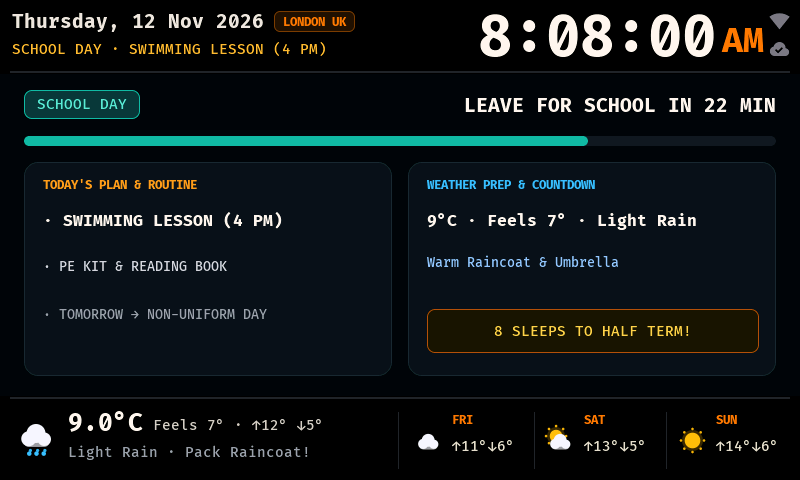
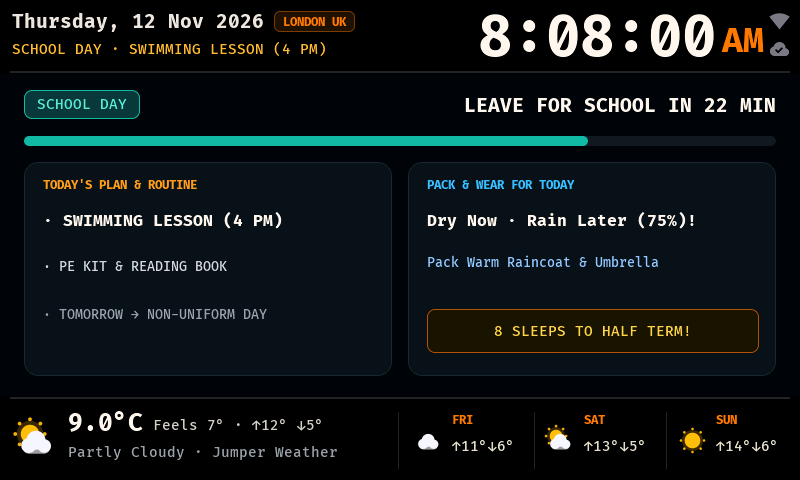
feat(v1.3.0): whole-day Pack & Wear morning briefing + configurable Launchpad start time & after-school hide delay

diff --git a/components/world_clock/ics_parser.h b/components/world_clock/ics_parser.h
@@ -203,6 +203,106 @@ inline std::string weather_prep_hint(const std::string &cond, float temp_c, bool
   return "Layers · Check Outside";
 }
 
+// Whole-day school-run briefing for the Morning Launchpad ("PACK & WEAR FOR TODAY" card).
+// Focuses on what changes across the whole day (rain later when dry now, morning->afternoon swings,
+// all-day cold/heat) rather than duplicating Band 3's current-moment temperature readout.
+struct DayPrepBriefing {
+  std::string headline;
+  std::string pack_hint;
+};
+
+inline DayPrepBriefing build_day_prep_briefing(const std::string &cur_cond, const std::string &today_cond,
+                                               float cur_c, float high_c, float low_c, int precip_pct, bool use_f) {
+  auto lower = [](std::string s) {
+    for (char &ch : s) ch = (char)tolower((unsigned char)ch);
+    return s;
+  };
+  auto is_wet = [](const std::string &s) {
+    return s.find("rain") != std::string::npos || s.find("pour") != std::string::npos ||
+           s.find("lightning") != std::string::npos || s.find("storm") != std::string::npos;
+  };
+  auto is_snow = [](const std::string &s) {
+    return s.find("snow") != std::string::npos || s.find("sleet") != std::string::npos ||
+           s.find("hail") != std::string::npos;
+  };
+
+  if (std::isnan(cur_c) && std::isnan(high_c)) {
+    return {"Day Forecast Syncing...", "Check outside before leaving"};
+  }
+
+  std::string cc = lower(cur_cond);
+  std::string dc = lower(today_cond);
+  bool cur_w = is_wet(cc);
+  bool cur_s = is_snow(cc);
+  bool day_s = is_snow(dc);
+  bool day_w = is_wet(dc) || (precip_pct >= 50);
+
+  float hi_c = !std::isnan(high_c) ? high_c : cur_c;
+  float lo_c = !std::isnan(low_c) ? low_c : cur_c;
+  float disp_hi = use_f ? c_to_f(hi_c) : hi_c;
+  if (fabsf(disp_hi) < 0.5f) disp_hi = 0.0f;
+  char unit = use_f ? 'F' : 'C';
+  bool big_swing = !std::isnan(cur_c) && !std::isnan(high_c) && ((high_c - cur_c) >= 7.0f);
+
+  char hdr[48];
+  if (cur_s || day_s) {
+    if (!cur_s && day_s) {
+      snprintf(hdr, sizeof(hdr), "Dry Now · Snow Later (%.0f°%c)", disp_hi, unit);
+    } else {
+      snprintf(hdr, sizeof(hdr), "Snow & Ice Today (High %.0f°%c)", disp_hi, unit);
+    }
+    return {hdr, "Warm Coat, Hat, Gloves & Boots"};
+  }
+
+  if (!cur_w && day_w) {
+    if (precip_pct >= 50) {
+      snprintf(hdr, sizeof(hdr), "Dry Now · Rain Later (%d%%)!", std::min(precip_pct, 100));
+    } else {
+      snprintf(hdr, sizeof(hdr), "Dry Now · Rain Expected Later!");
+    }
+    if (hi_c < 13.0f) return {hdr, "Pack Warm Raincoat & Umbrella"};
+    if (big_swing && hi_c >= 19.0f) return {hdr, "Layers + Light Raincoat!"};
+    return {hdr, "Pack Raincoat for Home Time!"};
+  }
+
+  if (cur_w) {
+    if (precip_pct >= 50) {
+      snprintf(hdr, sizeof(hdr), "Wet Today (High %.0f°%c · %d%%)", disp_hi, unit, std::min(precip_pct, 100));
+    } else {
+      snprintf(hdr, sizeof(hdr), "Wet & Showery (High %.0f°%c)", disp_hi, unit);
+    }
+    return {hdr, (hi_c < 13.0f) ? "Warm Raincoat & Umbrella" : "Light Raincoat & Umbrella"};
+  }
+
+  if (big_swing && hi_c >= 18.0f) {
+    if (hi_c >= 24.0f) {
+      snprintf(hdr, sizeof(hdr), "Cool AM \u2192 Hot PM (\u2191%.0f°%c)", disp_hi, unit);
+      return {hdr, "Layers + Sun Hat & Water"};
+    }
+    snprintf(hdr, sizeof(hdr), "Cool AM \u2192 Warm PM (\u2191%.0f°%c)", disp_hi, unit);
+    return {hdr, "Layers: Jumper Now, T-Shirt Later"};
+  }
+
+  if (hi_c >= 22.0f) {
+    snprintf(hdr, sizeof(hdr), "Warm & Bright Later (\u2191%.0f°%c)", disp_hi, unit);
+    return {hdr, "Sun Hat, Suncream & Water"};
+  }
+  if (hi_c < 8.5f || (lo_c < 2.0f && hi_c < 11.0f)) {
+    snprintf(hdr, sizeof(hdr), "Cold All Day (High %.0f°%c)", disp_hi, unit);
+    return {hdr, "Big Coat, Hat & Gloves"};
+  }
+  if (hi_c < 15.0f) {
+    snprintf(hdr, sizeof(hdr), "Cool Day Ahead (High %.0f°%c)", disp_hi, unit);
+    return {hdr, "Jumper or Light Jacket"};
+  }
+  if (hi_c >= 19.0f) {
+    snprintf(hdr, sizeof(hdr), "Warm Afternoon (High %.0f°%c)", disp_hi, unit);
+    return {hdr, "T-Shirt Weather + Water"};
+  }
+  snprintf(hdr, sizeof(hdr), "Mild Day Ahead (High %.0f°%c)", disp_hi, unit);
+  return {hdr, "Light Layers · No Rain Due"};
+}
+
 // Evaluates Family + School calendars + Custom Countdown into unified display strings
 // across all 3 priority modes (0=Smart Auto, 1=Today & Routine First, 2=Countdowns First).
 inline CalendarView build_calendar_view(const IcsFeedSummary &fam, const IcsFeedSummary &sch,

diff --git a/components/world_clock/net_worker.h b/components/world_clock/net_worker.h
@@ -52,6 +52,8 @@ struct StandaloneTelemetry {
   float wx_high{NAN};
   float wx_low{NAN};
   char cond_buf[32]{"cloudy"};
+  char wx_today_cond_buf[32]{""};
+  int wx_today_precip_pct{-1};
   char forecast_3day_buf[128]{""};
 
   // ISS payload (protected by mtx; iss_valid is atomic above)
@@ -394,7 +396,7 @@ class NetWorker {
         snprintf(url_buf, kUrlCap,
                  "https://api.open-meteo.com/v1/forecast?latitude=%.4f&longitude=%.4f"
                  "&current=temperature_2m,apparent_temperature,weather_code,is_day"
-                 "&daily=weather_code,temperature_2m_max,temperature_2m_min"
+                 "&daily=weather_code,temperature_2m_max,temperature_2m_min,precipitation_probability_max"
                  "&timezone=auto&forecast_days=4",
                  q_lat, q_lon);
 
@@ -414,6 +416,8 @@ class NetWorker {
             float d_max[] = {NAN, NAN, NAN, NAN};
             float d_min[] = {NAN, NAN, NAN, NAN};
             float d_wmo[] = {3, 3, 3, 3};
+            float d_pp[] = {-1, -1, -1, -1};
+            bool have_pp = false;
             fc_local[0] = '\0';
             bool have_daily = false;
 
@@ -421,7 +425,9 @@ class NetWorker {
               const char *p_max = strstr(day_sec, "\"temperature_2m_max\"");
               const char *p_min = strstr(day_sec, "\"temperature_2m_min\"");
               const char *p_wmo = strstr(day_sec, "\"weather_code\"");
+              const char *p_pp = strstr(day_sec, "\"precipitation_probability_max\"");
               const char *p_tm = strstr(day_sec, "\"time\"");
+              if (p_pp != nullptr && parse_csv_floats(p_pp + 31, d_pp, 4)) have_pp = true;
               if (p_max && p_min && p_wmo && p_tm && parse_csv_floats(p_max + 20, d_max, 4) &&
                   parse_csv_floats(p_min + 20, d_min, 4) && parse_csv_floats(p_wmo + 14, d_wmo, 4)) {
                 have_daily = true;
@@ -449,6 +455,9 @@ class NetWorker {
               if (have_daily) {
                 t.wx_high = d_max[0];
                 t.wx_low = d_min[0];
+                snprintf(t.wx_today_cond_buf, sizeof(t.wx_today_cond_buf), "%s",
+                         wmo_to_cond((int)roundf(d_wmo[0]), true));
+                t.wx_today_precip_pct = have_pp ? (int)roundf(std::clamp(d_pp[0], 0.0f, 100.0f)) : -1;
                 if (fc_local[0] != '\0') snprintf(t.forecast_3day_buf, sizeof(t.forecast_3day_buf), "%s", fc_local);
               }
               snprintf(t.cond_buf, sizeof(t.cond_buf), "%s", cond_str);

diff --git a/tests/test_clock_math.cpp b/tests/test_clock_math.cpp
@@ -517,6 +517,29 @@ int main() {
     assert(!w4_mon.summary().today_timed[1].valid);
   }
 
+  // 13. v1.3.0 Whole-Day "PACK & WEAR FOR TODAY" Briefing (Zero Redundancy with Current Weather Dock!)
+  {
+    // Dry morning right now (partlycloudy 9C) BUT 75% rain forecast later -> warns to pack raincoat!
+    auto b1 = build_day_prep_briefing("partlycloudy", "rainy", 9.0f, 12.0f, 5.0f, 75, false);
+    assert(b1.headline == "Dry Now · Rain Later (75%)!");
+    assert(b1.pack_hint == "Pack Warm Raincoat & Umbrella");
+
+    // Chilly summer morning (11C) climbing to hot afternoon (25C) -> layers + sun hat & water!
+    auto b2 = build_day_prep_briefing("sunny", "sunny", 11.0f, 25.0f, 9.0f, 10, false);
+    assert(b2.headline.find("Cool AM") != std::string::npos && b2.headline.find("Hot PM") != std::string::npos);
+    assert(b2.pack_hint == "Layers + Sun Hat & Water");
+
+    // Cool morning (10C) climbing to warm afternoon (21C) -> Jumper now, T-Shirt later!
+    auto b3 = build_day_prep_briefing("sunny", "partlycloudy", 10.0f, 21.0f, 8.0f, 15, false);
+    assert(b3.headline.find("Warm PM") != std::string::npos);
+    assert(b3.pack_hint == "Layers: Jumper Now, T-Shirt Later");
+
+    // Freezing all day (High 5C) in Fahrenheit -> 41°F
+    auto b4 = build_day_prep_briefing("cloudy", "cloudy", 2.0f, 5.0f, 0.0f, 10, true);
+    assert(b4.headline == "Cold All Day (High 41°F)");
+    assert(b4.pack_hint == "Big Coat, Hat & Gloves");
+  }
+
   printf("ALL CLOCK_MATH & ICS_PARSER UNIT TESTS PASSED!\n");
   return 0;
 }

diff --git a/docs/PARENT_GUIDE.md b/docs/PARENT_GUIDE.md
@@ -31,10 +31,10 @@ Pick how prominent you want your calendar to look under **Calendar Display Style
 1. **Subtle Ticker Only** *(Default)* — Keeps the full live World Map & 3-day forecast visible, rotating calm calendar headlines along the top ticker (`"SCHOOL DAY · SWIMMING LESSON (4 PM)"`).
 2. **Prominent Dock Card** — Keeps the full World Map & ISS visible, while turning the bottom-right dock card into a clean **"TODAY'S PLAN"** card with a live countdown for timed events (`"SWIMMING LESSON IN 25 MIN!"`):
    ![Prominent Calendar Dock Card](media/21_calendar_prominent_dock.png)
-3. **Morning Launchpad Takeover** *(Autism-Friendly School Morning Mode)* — From **your child's effective Morning Wake-Up Time** until **5 minutes past your Leave for School Time** (automatically skipped on quiet weekends with no scheduled events!), Band 2 gently switches to a calm, structured morning briefing board (then automatically returns to the live World Map!):
+3. **Morning Launchpad Takeover** *(Autism-Friendly School Morning Mode)* — Starts at your **Morning Launchpad Start Time** (default `07:00`, and automatically waits until Wake-Up if Sleep/Quiet Play is still active!) and stays on for your **Keep Launchpad After School Time** grace window (default `30 min` past `Leave for School Time`, e.g. `08:30 → 09:00` for busy mornings!), automatically skipped on quiet weekends with no scheduled events:
    - Top **School Day** (teal) or **No School · Half Term** (warm amber) badge + live **"LEAVE FOR SCHOOL IN 22 MIN"** progress bar
    - **Today's Plan & Routine** (Parent Note, timed events, all-day items like PE Kit, and Tomorrow heads-up)
-   - **Weather Prep Checklist** (e.g. *"Warm Raincoat & Umbrella"*, *"Big Coat, Gloves & Scarf"*, *"Sun Hat, Suncream & Water"*)
+   - **Pack & Wear for Today (Whole-Day Briefing)** — Looks ahead at the **full day's forecast** rather than repeating the current weather below it: warns *"Dry Now · Rain Later (75%)! → Pack Warm Raincoat & Umbrella"* when rain is due by pickup, or *"Cool AM → Warm PM (↑23°C) → Layers: Jumper Now, T-Shirt Later"* on big morning-to-afternoon temperature swings!
    - **Automatic Holiday & Back-to-School Badge**: counts down **"8 SLEEPS TO HALF TERM!"** during term time and **"5 SLEEPS TO BACK TO SCHOOL"** during school holidays (automatically skipping Sat/Sun weekends!)
 
 | School Day Morning Launchpad | Half Term No-School Launchpad |

diff --git a/README.md b/README.md
@@ -33,7 +33,7 @@ Each phase can be enabled/disabled and customized independently (times, brightne
 | ![Tooth Fairy Mode](docs/media/18_tooth_fairy_winddown.png) | ![Boot Screen with Sleep-Safe Red QR Code and Unique Login](docs/media/01_boot_splash.png) |
 
 ### Family & School Calendars, Morning Launchpad & Multi-Age Study Desk
-Choose between **Subtle Ticker Only**, **Prominent Dock Card**, or **Morning Launchpad Takeover** (calm autism-friendly daily briefing with live Leave-for-School countdown, weather prep checklist, and automatic *"X SLEEPS TO HALF TERM!"* / *"X SLEEPS TO BACK TO SCHOOL"* badges), plus **Symmetric School-Night Bedtimes** (Friday/Saturday/pre-holiday late bedtime; Sunday night automatically reverts to early school-night bedtime!) and **Age & Visual Profiles (Ages 3–16+)** with a built-in **25m / 5m Focus Pomodoro Timer**:
+Choose between **Subtle Ticker Only**, **Prominent Dock Card**, or **Morning Launchpad Takeover** (calm autism-friendly daily briefing with live Leave-for-School countdown, whole-day **Pack & Wear for Today** briefing — e.g. *"Dry Now · Rain Later (75%)!"* or *"Cool AM → Warm PM (↑23°C)"* — and automatic *"X SLEEPS TO HALF TERM!"* / *"X SLEEPS TO BACK TO SCHOOL"* badges), plus **Symmetric School-Night Bedtimes** (Friday/Saturday/pre-holiday late bedtime; Sunday night automatically reverts to early school-night bedtime!) and **Age & Visual Profiles (Ages 3–16+)** with a built-in **25m / 5m Focus Pomodoro Timer**:
 
 | Calendar & Multi-Age Walkthrough (Animated) | Morning Launchpad — School Day & Leave Countdown |
 | :---: | :---: |
